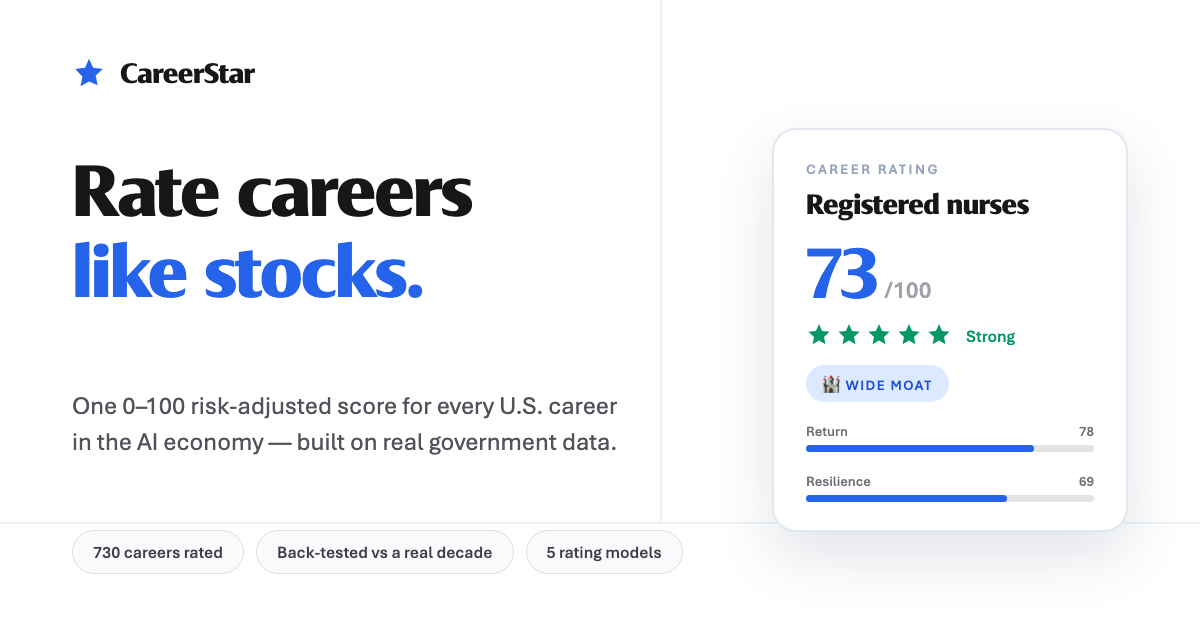
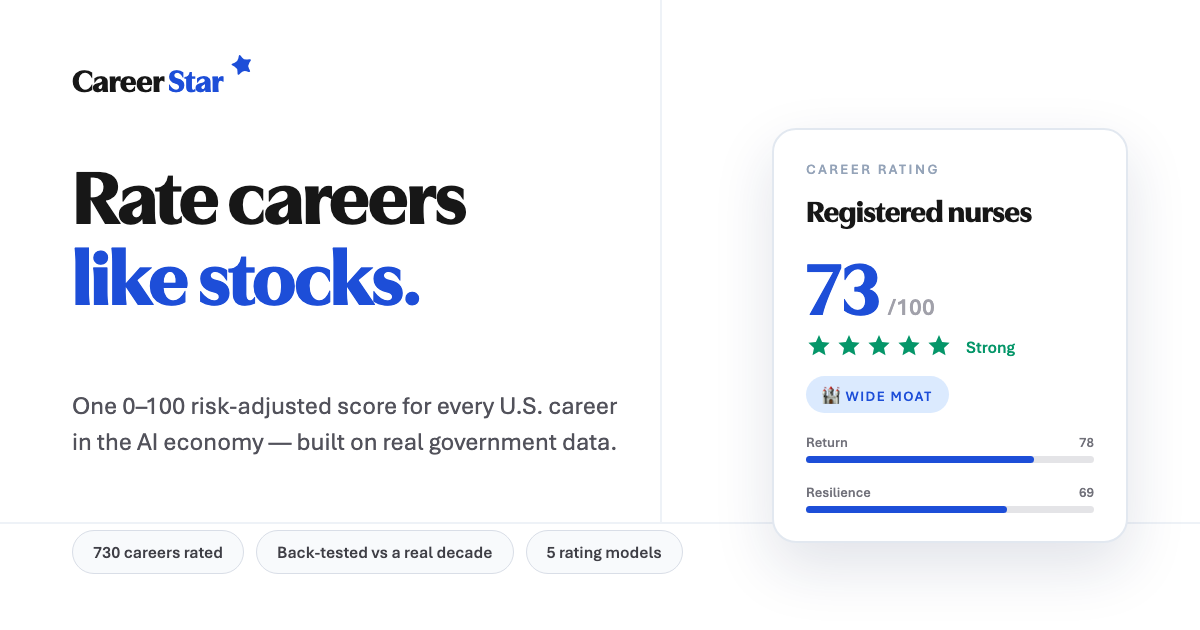
Roll the locked identity across the site
The Utile Display Black + exponent-star + B4 cobalt identity (chosen over
9 design rounds) now appears everywhere, not just the print masthead:

- Brand.tsx: shared TiltedStar + BrandWordmark components (single source
  for the star path and lockup)
- NavBar: wordmark lockup replaces the old text-star logo
- layout: Adobe Fonts kit (Utile Display Black + Aptos) loaded site-wide
- favicon: icon.svg + icon.png regenerated — white tilted star on B4 tile
- og.png: share card re-rendered in Utile + tilted star + B4
- per-career satori OG images, scoring-pipeline diagram, downloadable
  results card: accent moved to B4; results card brand row uses the
  tilted star + two-tone wordmark
- print masthead + report footer: wordmark set in Utile

diff --git a/app/components/Brand.tsx b/app/components/Brand.tsx
@@ -1,0 +1,54 @@
+// The CareerStar identity, in one place: the tilted "Exponent" star and the
+// Utile Display Black wordmark lockup. Chosen through a 9-round design
+// exploration — wordmark in Utile, star raised to the shoulder like an
+// exponent, B4 cobalt (#1d4ed8 = Tailwind blue-600 after the token remap).
+
+// Continuously-rounded pentagram, tilted 14° — generated geometry, not hand-drawn.
+export const TILTED_STAR_PATH =
+  "M8.86 4.12Q9.29 1.73 10.79 3.64L12.01 5.19Q13.99 7.69 17.14 7.26L19.09 6.99Q21.50 6.66 20.15 8.68L19.06 10.32Q17.29 12.97 18.67 15.84L19.53 17.61Q20.58 19.80 18.24 19.14L16.35 18.61Q13.28 17.74 10.98 19.94L9.56 21.31Q7.80 22.98 7.71 20.56L7.63 18.59Q7.51 15.41 4.70 13.90L2.96 12.97Q0.83 11.82 3.10 10.98L4.95 10.30Q7.94 9.19 8.51 6.06Z";
+
+export function TiltedStar({
+  size = 14,
+  className = "",
+  style,
+}: {
+  size?: number;
+  className?: string;
+  style?: React.CSSProperties;
+}) {
+  return (
+    <svg
+      width={size}
+      height={size}
+      viewBox="0 0 24 25"
+      aria-hidden
+      className={`inline-block fill-blue-600 ${className}`}
+      style={style}
+    >
+      <path d={TILTED_STAR_PATH} />
+    </svg>
+  );
+}
+
+// The wordmark lockup: Career (ink) + Star (cobalt) + the exponent star at the
+// shoulder. `size` is the font size in px; the star scales and rises with it.
+export function BrandWordmark({ size = 19, className = "" }: { size?: number; className?: string }) {
+  const star = Math.round(size * 0.72);
+  return (
+    <span
+      className={`relative inline-flex items-baseline whitespace-nowrap font-black ${className}`}
+      style={{
+        fontFamily: '"utile-display", var(--font-geist-sans), sans-serif',
+        fontSize: size,
+        letterSpacing: "-0.015em",
+      }}
+    >
+      Career<span className="text-blue-600">Star</span>
+      <TiltedStar
+        size={star}
+        className="relative"
+        style={{ top: -Math.round(size * 0.5), left: Math.max(1, Math.round(size * 0.06)) }}
+      />
+    </span>
+  );
+}

diff --git a/app/components/DownloadResultsCard.tsx b/app/components/DownloadResultsCard.tsx
@@ -27,7 +27,7 @@ function bar(x: number, y: number, w: number, label: string, value: number): str
     <text x="${x}" y="${y}" font-size="19" font-weight="600" fill="#71717a" font-family="ui-sans-serif, -apple-system, 'Segoe UI', sans-serif">${esc(label)}</text>
     <text x="${x + w}" y="${y}" font-size="19" font-weight="600" fill="#3f3f46" text-anchor="end" font-family="ui-sans-serif, -apple-system, 'Segoe UI', sans-serif">${value}</text>
     <rect x="${x}" y="${y + 12}" width="${w}" height="9" rx="4.5" fill="#e4e4e7"/>
-    <rect x="${x}" y="${y + 12}" width="${fillW}" height="9" rx="4.5" fill="#2563eb"/>`;
+    <rect x="${x}" y="${y + 12}" width="${fillW}" height="9" rx="4.5" fill="#1d4ed8"/>`;
 }
 
 function buildSvg(r: ScoreResult): string {
@@ -43,12 +43,13 @@ function buildSvg(r: ScoreResult): string {
   <rect width="1200" height="630" fill="#ffffff"/>
   <rect x="0" y="522" width="1200" height="2" fill="#eef2f7"/>
   <g transform="translate(72,52)">
-    <path d="M12 2l2.9 6.3 6.9.8-5.1 4.7 1.4 6.8L12 18l-6 3.4 1.4-6.8L2.3 9.1l6.9-.8z" fill="#2563eb" transform="scale(1.45)"/>
-    <text x="48" y="26" font-size="30" font-weight="700" fill="#171717" font-family="${sans}" letter-spacing="-0.5">CareerStar</text>
+    <path d="M8.86 4.12Q9.29 1.73 10.79 3.64L12.01 5.19Q13.99 7.69 17.14 7.26L19.09 6.99Q21.50 6.66 20.15 8.68L19.06 10.32Q17.29 12.97 18.67 15.84L19.53 17.61Q20.58 19.80 18.24 19.14L16.35 18.61Q13.28 17.74 10.98 19.94L9.56 21.31Q7.80 22.98 7.71 20.56L7.63 18.59Q7.51 15.41 4.70 13.90L2.96 12.97Q0.83 11.82 3.10 10.98L4.95 10.30Q7.94 9.19 8.51 6.06Z" fill="#1d4ed8" transform="scale(1.5)"/>
+    <text x="46" y="27" font-size="30" font-weight="700" fill="#171717" font-family="${sans}" letter-spacing="-0.5">Career</text>
+    <text x="140" y="27" font-size="30" font-weight="700" fill="#1d4ed8" font-family="${sans}" letter-spacing="-0.5">Star</text>
   </g>
   <text x="72" y="170" font-size="24" font-weight="600" fill="#94a3b8" letter-spacing="4" font-family="${sans}">MY CAREER RATING</text>
   <text x="72" y="248" font-size="58" font-weight="700" fill="#171717" letter-spacing="-1.5" font-family="${sans}">${esc(title)}</text>
-  <text x="72" y="392" font-size="150" font-weight="700" fill="#2563eb" letter-spacing="-4" font-family="${sans}">${r.score}</text>
+  <text x="72" y="392" font-size="150" font-weight="700" fill="#1d4ed8" letter-spacing="-4" font-family="${sans}">${r.score}</text>
   <text x="${72 + String(r.score).length * 86 + 14}" y="392" font-size="42" font-weight="600" fill="#a1a1aa" font-family="${sans}">/100</text>
   ${r.stars != null ? starRow(76, 424, r.stars) : ""}
   ${pct ? `<text x="260" y="447" font-size="22" font-weight="600" fill="#52525b" font-family="${sans}">${esc(pct)}</text>` : ""}
@@ -58,7 +59,7 @@ function buildSvg(r: ScoreResult): string {
   ${bar(700, 340, 428, "Fit", r.components.fit)}
   <text x="700" y="447" font-size="19" fill="#71717a" font-family="${sans}">Return = growth + pay · Resilience = shielded from AI</text>
   <text x="72" y="576" font-size="21" font-weight="600" fill="#52525b" font-family="${sans}">Rate your own career paths — like stocks</text>
-  <text x="1128" y="576" font-size="21" font-weight="600" fill="#2563eb" text-anchor="end" font-family="${sans}">main.d3ag7o87gtn2c8.amplifyapp.com</text>
+  <text x="1128" y="576" font-size="21" font-weight="600" fill="#1d4ed8" text-anchor="end" font-family="${sans}">main.d3ag7o87gtn2c8.amplifyapp.com</text>
 </svg>`;
 }
 

diff --git a/app/components/CareerForm.tsx b/app/components/CareerForm.tsx
@@ -500,7 +500,10 @@ export default function CareerForm() {
                   <svg width="26" height="26" viewBox="0 0 24 25" aria-hidden>
                     <path d="M8.86 4.12Q9.29 1.73 10.79 3.64L12.01 5.19Q13.99 7.69 17.14 7.26L19.09 6.99Q21.50 6.66 20.15 8.68L19.06 10.32Q17.29 12.97 18.67 15.84L19.53 17.61Q20.58 19.80 18.24 19.14L16.35 18.61Q13.28 17.74 10.98 19.94L9.56 21.31Q7.80 22.98 7.71 20.56L7.63 18.59Q7.51 15.41 4.70 13.90L2.96 12.97Q0.83 11.82 3.10 10.98L4.95 10.30Q7.94 9.19 8.51 6.06Z" fill="#1d4ed8"/>
                   </svg>
-                  <span className="text-2xl font-bold tracking-tight">
+                  <span
+                    className="text-2xl font-black tracking-tight"
+                    style={{ fontFamily: '"utile-display", var(--font-geist-sans), sans-serif' }}
+                  >
                     Career<span className="text-blue-600">Star</span>
                   </span>
                 </div>
@@ -735,7 +738,10 @@ export default function CareerForm() {
                 al. 2023 · College Scorecard. Methodology, back-test, and open data:
                 main.d3ag7o87gtn2c8.amplifyapp.com/methodology
               </span>
-              <span className="shrink-0 pl-6 font-semibold">
+              <span
+                className="shrink-0 pl-6 font-black"
+                style={{ fontFamily: '"utile-display", var(--font-geist-sans), sans-serif' }}
+              >
                 Career<span className="text-blue-600">Star</span>
               </span>
             </div>

diff --git a/app/components/NavBar.tsx b/app/components/NavBar.tsx
@@ -3,6 +3,7 @@
 import Link from "next/link";
 import { usePathname } from "next/navigation";
 import { useState } from "react";
+import { BrandWordmark } from "./Brand";
 
 // Site nav: a compact pill bar on desktop; a logo + hamburger dropdown on mobile
 // so the sticky header stays ~50px instead of wrapping to a tall block.
@@ -35,10 +36,9 @@ export default function NavBar() {
         <Link
           href="/"
           aria-label="CareerStar home"
-          className="mr-auto flex items-center gap-1.5 text-[17px] font-bold tracking-tight text-foreground"
+          className="mr-auto flex items-center text-foreground"
         >
-          <span aria-hidden="true" className="text-blue-600">★</span>
-          CareerStar
+          <BrandWordmark size={19} />
         </Link>
 
         {/* Desktop links */}

diff --git a/app/career/[code]/opengraph-image.tsx b/app/career/[code]/opengraph-image.tsx
@@ -66,7 +66,7 @@ export default async function OgImage({ params }: { params: Promise<{ code: stri
       >
         <div style={{ display: "flex", alignItems: "center", gap: 16 }}>
           <svg width="44" height="44" viewBox="0 0 20 20">
-            <path d={STAR_PATH} fill="#2563eb" />
+            <path d={STAR_PATH} fill="#1d4ed8" />
           </svg>
           <div style={{ fontSize: 40, fontWeight: 700, color: "#ffffff" }}>CareerStar</div>
           <div style={{ fontSize: 26, color: "#64748b", marginLeft: 8 }}>research report</div>

diff --git a/app/components/ScoringPipelineDiagram.tsx b/app/components/ScoringPipelineDiagram.tsx
@@ -3,7 +3,7 @@
 // the plain-English "why" and never computes the number. Theme-aware — text and
 // muted strokes use currentColor (= --foreground); blue-600 is the accent.
 export default function ScoringPipelineDiagram({ className = "" }: { className?: string }) {
-  const BLUE = "#2563eb";
+  const BLUE = "#1d4ed8";
   return (
     <svg
       viewBox="0 0 880 470"

diff --git a/app/layout.tsx b/app/layout.tsx
@@ -48,6 +48,8 @@ export default function RootLayout({
       className={`${geistSans.variable} ${geistMono.variable} h-full antialiased`}
     >
       <body className="min-h-full flex flex-col">
+        {/* Brand typeface (Utile Display Black) via Adobe Fonts. */}
+        <link rel="stylesheet" href="https://use.typekit.net/hko8vsb.css" />
         <a
           href="#main-content"
           className="sr-only focus:not-sr-only focus:absolute focus:left-2 focus:top-2 focus:z-30 focus:rounded-lg focus:bg-blue-600 focus:px-3 focus:py-2 focus:text-sm focus:font-medium focus:text-white"

diff --git a/_bmad-output/party-mode/memories/installed/.memlog.md b/_bmad-output/party-mode/memories/installed/.memlog.md
@@ -1,5 +1,5 @@
 ---
-updated: 2026-07-09T13:10
+updated: 2026-07-19T11:55
 ---
 
 - (outcome) Ashley: 19, math+CS @ UIUC, building her FIRST app. Bought the AWS domain before having an idea. Asked the room to interview her to find the idea.
@@ -58,3 +58,4 @@ updated: 2026-07-09T13:10
 - (outcome) ROUND 3 (Ashley picked queue items 2/3/4 + 'keep brainstorming for uniqueness'): (a) PER-CAREER OG IMAGES — app/career/[code]/opengraph-image.tsx via next/og ImageResponse: dark card w/ career title, tinted stars, score/100, moat badge ('Registered nurses ★★★★★ 60/100 Wide moat'); satori gotcha fixed ({score}/100 = two text nodes → template string). (b) THE CAREERSTAR 20 (/top-20, in nav + sitemap) — flagship editorial list, purely derived: wide moat AND all-5-models spread ≤20, ranked by consensus (calibrated: ≤15→0 qualify, ≤20→26). #1 Nurse anesthetists 86±10, then PTs, elevator installers, commercial pilots — honest footnote that the list skews hands-on/human-centered because that's what the data says. (c) TALKING_POINTS.md — repo doc mapping 8 interview questions → 30-sec answers → code files (hardest bug=the spec gap; why z-scoring; how do you know it's right; DEFEND no-moat-software-devs; what did YOU build; forced curve; security by construction; what's next=temporal backtest). 30/30, verified live.
 - (outcome) LEGIBILITY FIXES (Ashley's own Jade-moment: 'I don't know what a moat is and most people won't' + 'the models part is super small and unclear'). (1) Moat explained in plain English at EVERY point of use — castle metaphor ('the water around a castle that makes it hard to attack → how shielded a career is from AI'): footnote under score cards, per-rating variant explainer on career reports (wide/narrow/none each get specific wording; 'none' points to exposure≠job loss), caption lines on Explore + field tables, upgraded badge tooltips. (2) ModelComparison REDESIGNED for prominence: blue-emphasis card, title '🧮 Second opinions — five ways to rate a career', plain-language intro (judges metaphor), VERDICT PROMOTED to a big amber/green callout box ABOVE the table ('⚖️ The judges disagree — 3 different careers win…' / '✅ All five judges pick X'), visible 5-judge plain-language legend under the table (no more hover-only), formulas linked to methodology. 30/30 tests, verified live.
 - (outcome) MORNINGSTAR TIER SHIPPED (brainstorm converged on 'finish becoming a ratings agency'; Ashley ran it). (1) 🏰 AI-MOAT rating — lib/scorer/moat.ts: defensibility = 0.6·(1−exposure) + 0.4·distinctiveness(top-5 z mean, recentered (dz−1)/2); thresholds W≥0.70/N≥0.55 CALIBRATED on the real distribution → 152 wide/358 narrow/220 none (~Morningstar shape). First calibration was mush (85% wide) — recentering fixed it. Spicy honest call kept: SOFTWARE DEVELOPERS = NO MOAT (extreme LLM exposure) while still 4.5★ score — ship, don't tune away. (2) DATA BUG found+fixed: O*NET 29.0 lacks 25 newer SOC codes incl. 15-1252 Software developers → two-pass pipeline estimates vectors from SOC-group siblings, flagged skillVectorEstimated, market stats exclude estimates, disclosed on /methodology. (3) CAREER RESEARCH REPORT — /career/[code] redesigned Morningstar-style: 'CareerStar rating' header (big tinted stars, band, moat badge, uncertainty-in-words, top-X%, analyst take via plainVerdict(no-interests)), score + 3×3 STYLE BOX (reward×risk terciles), Bulls/Bears; module-level default-weight scoring of all 730 (ALL_SCORED cached). (4) SCREENER — /api/leaderboard + Explore gain ★rating + moat columns ('★5.0 · 75' after fixing glued '★575'). (5) uncertaintyLabel words (Low≤5/Med≤8/High≤10/VeryHigh) on cards+report; glossary tooltips on Return/Resilience/Fit bars; shared rating-ui.tsx (Stars/MOAT_BADGE). (6) /methodology 'The AI-moat rating' section w/ formula+thresholds+estimated-vector disclosure. 25/25 tests (4 new moat tests), verified live (nurses report: WIDE MOAT/Medium uncertainty/style box correct).
+- (moment by bmad-agent-ux-designer) Ashley called a website-improvement brainstorm; room convened as Sally, Amelia, Priya, Jade, Wren, Dana. Opening angle: Priya reframed it as 'what does a recruiter see in 90 seconds' vs Sally's first-run onboarding vs Wren's unfinished brand rollout.